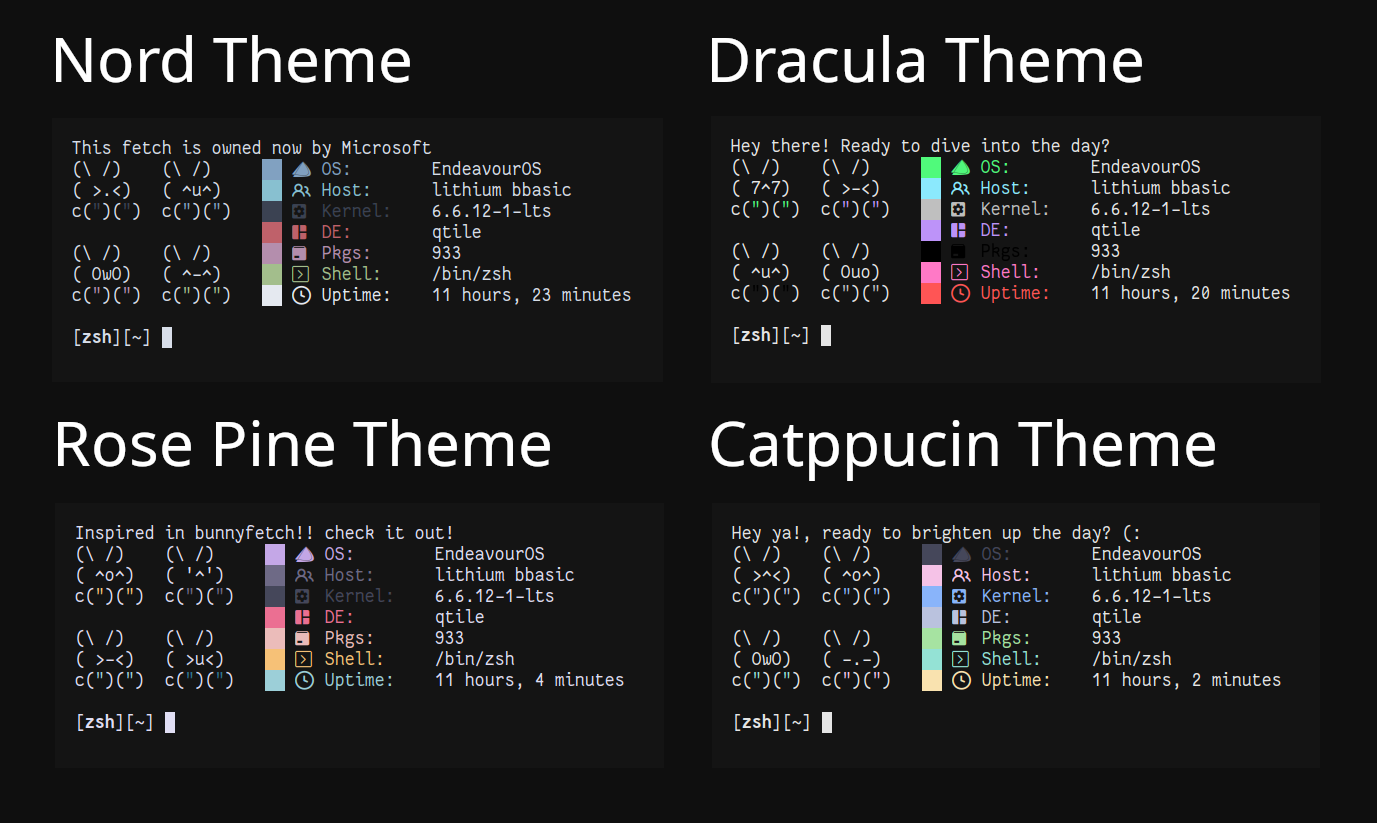
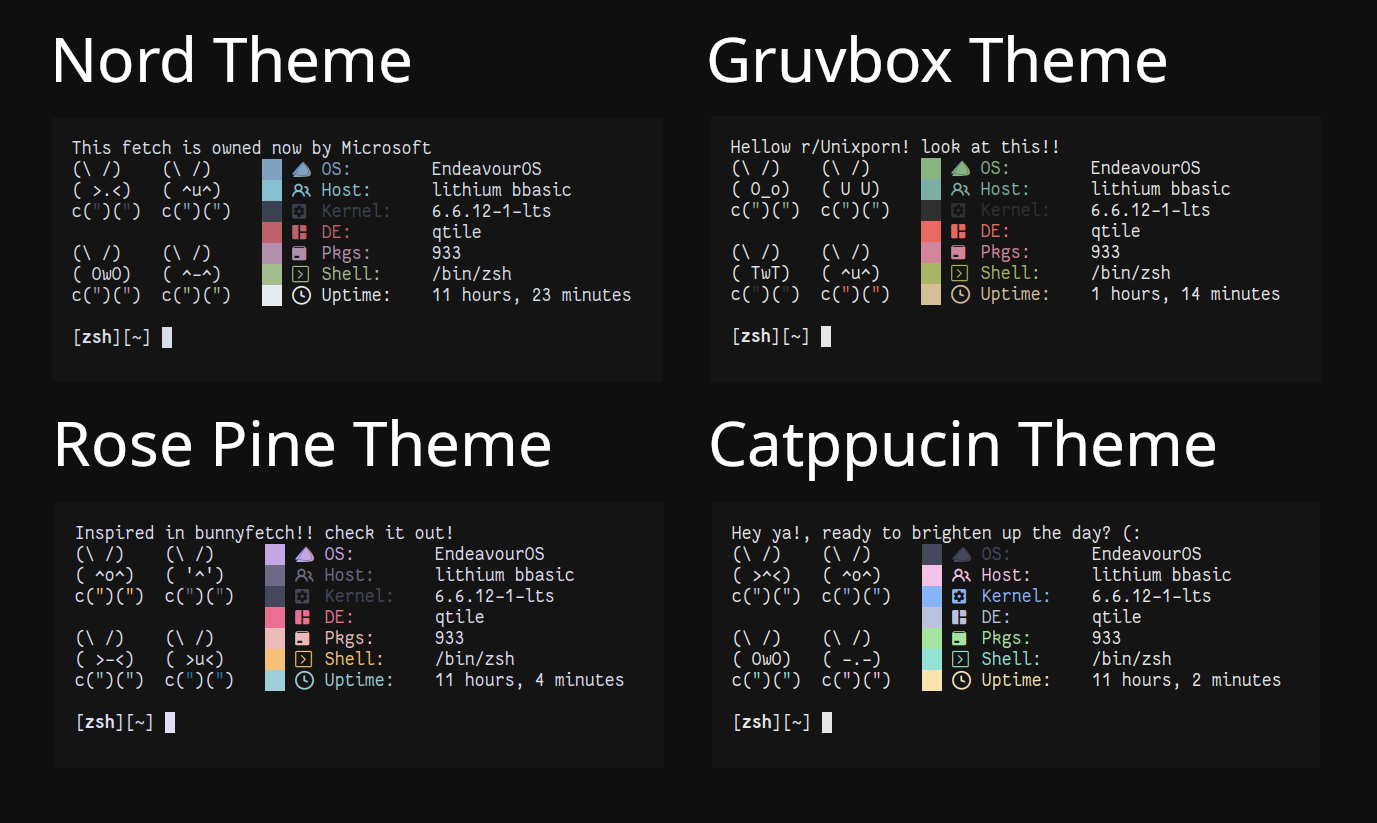
Added more functions to customize
added more options to display information, like choosing the order of the colors and some other

Changed region(s): [[0.5309, 0.1519, 0.9368, 0.3645], [0.4996, 0.0304, 0.8431, 0.1215], [0.5309, 0.3949, 0.5933, 0.4253]]

diff --git a/config.py b/config.py
@@ -8,11 +8,14 @@
     
     EXTRA: if you are facing problems with blank spaces in custom ascii, take this
     empty char made for filling some ascii arts, it will surely fix it
-    emptychar=" "
+    emptychars="      "
 
 '''
 #Enables/disables random phrases at the top of the fetch
 show_phrase=True
+
+#Indent the phrase to left instead right on custom ascii
+phraseToLeft=False
 
 #Enables/disables every ascii art
 show_ascii=True
@@ -28,6 +31,13 @@ icons=["","","","","","",""]
 
 #Shows in order what information is displayed
 display=["os","host","kernel","de","pkg","shell","uptime"]
+
+#Enable/disable normal behavior of this app
+randomize_colors=True
+
+#If randomize_colors is false, you can set the order of the colors
+#this column is:  os    host   krn   de   pkg    sh    upt   NA
+static_color_set=["cyn","ble","blk","red","prp","grn","wht","ylw"]
 
 #Values: ["custom" or "default"]
 prioritize_ascii="default"

diff --git a/README.md b/README.md
@@ -17,9 +17,9 @@ https://github.com/Rosettea/bunnyfetch.
 ## Instructions
 1. Clone the repo locally with ` git clone `<br>
 2. Change directory to the folder with ` cd `<br>
-3. Install as binary with  `make install`<br>
-4. Run as  `bunnydelic`<br>
-5. For uninstalling use `make uninstall`<br>
+3. Install as binary with  ` make install `<br>
+4. Run as  ` bunnydelic `<br>
+5. For uninstalling use ` make uninstall `<br>
 
 ## Supported distros
 - Arch linux and derivated distros
@@ -40,8 +40,8 @@ https://github.com/Rosettea/bunnyfetch.
 + make an deb package when it's stable
 
 ## Author notes
-why this name? well, it has bunnies and "delic" comes from an old username of mine, that also matches "psychodelic", 
-whose colors are always changing. <br>
+why this name? well, it has bunnies and "delic" comes from "psychodelic", 
+whose colors are always changing, and also match for an old username i had.<br>
 This fetch uses colors of your system to colorize the output.
 I recommend to use a colorscheme for your Xresources file, like rosepine, dracula, nord, etc. <br>
 It also may look weird depending of the font, monospace looks weird. I recommend nerd fonts or some other.<br> 
